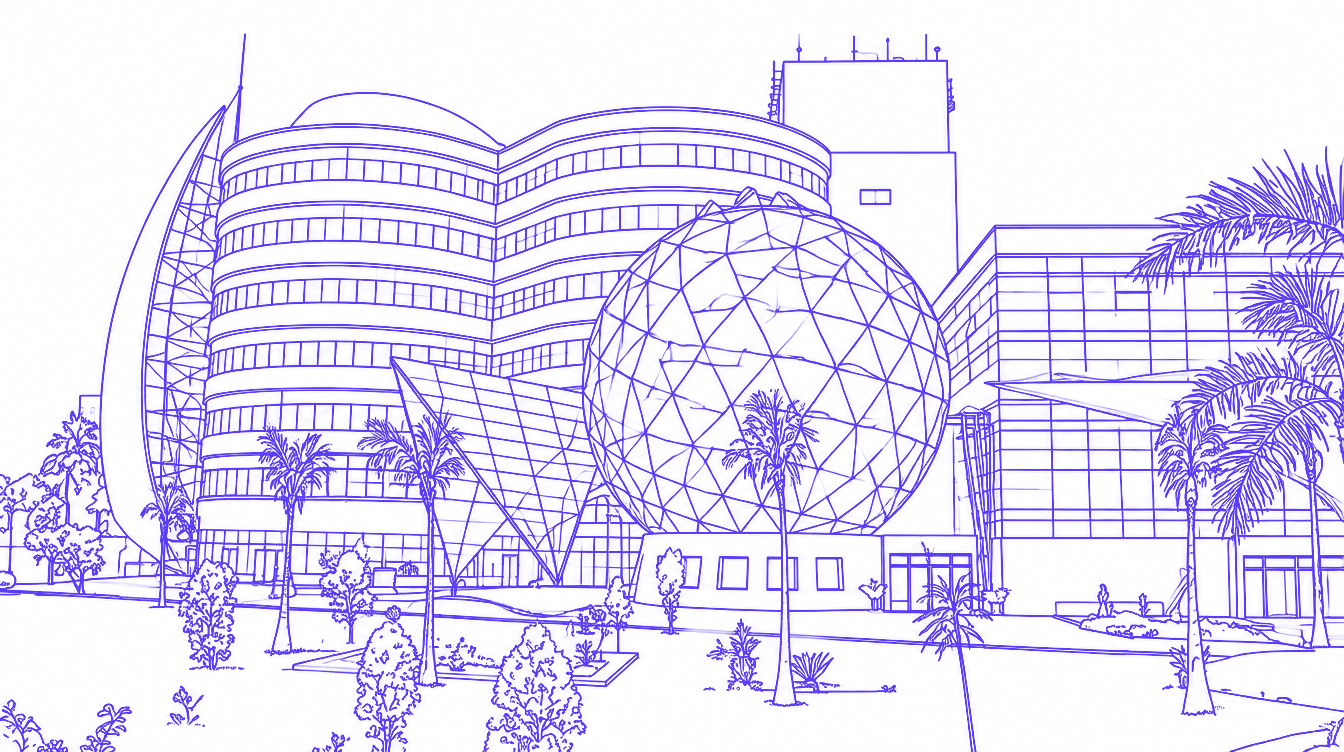
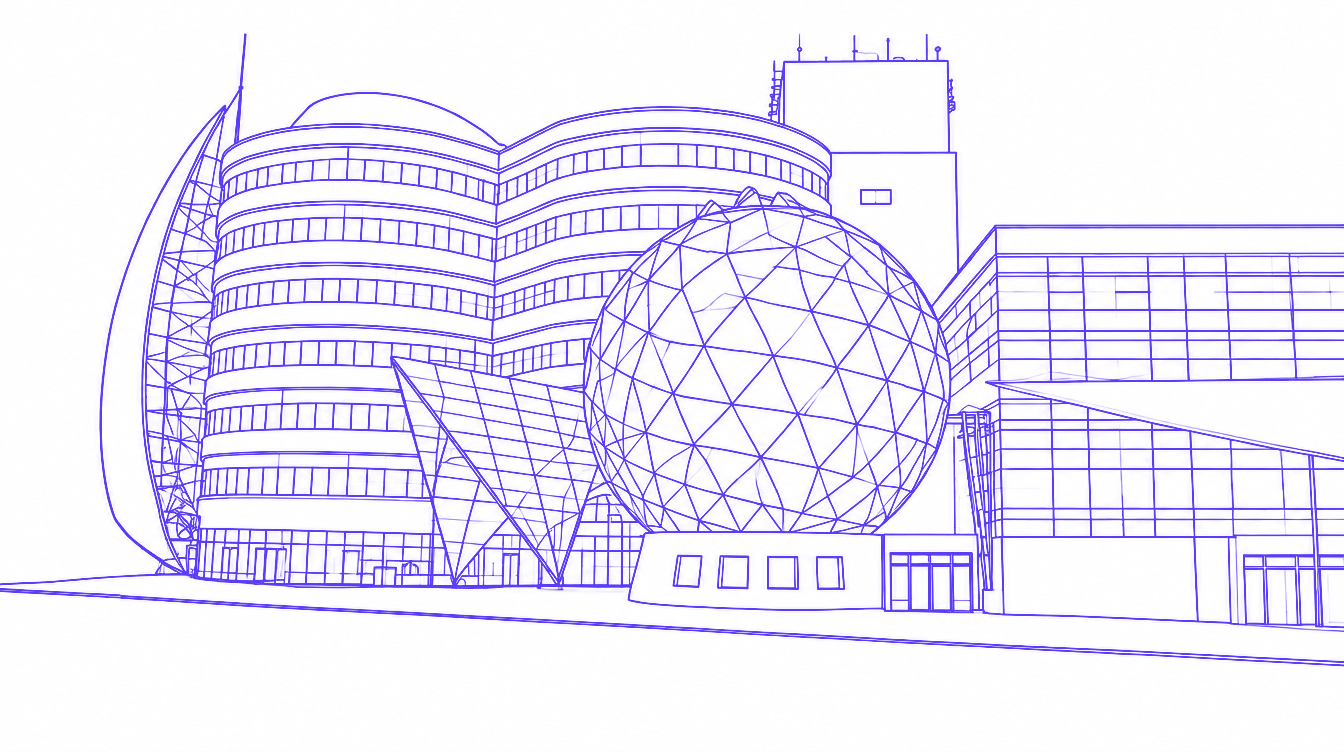
Hero outline without trees

diff --git a/index.html b/index.html
@@ -384,7 +384,7 @@ canvas.dna{display:block;width:100%;pointer-events:none}
 
 <!-- ================= HERO ================= -->
 <header class="hero" id="top">
-  <div class="hero-bg" aria-hidden="true"><img src="assets/hospital-outline.webp" alt="" /></div>
+  <div class="hero-bg" aria-hidden="true"><img src="assets/hospital-outline.webp?v=2" alt="" /></div>
   <svg class="squig" style="right:-6%;bottom:-8%;width:52%;height:62%" viewBox="0 0 800 500" aria-hidden="true">
     <path class="draw" d="M-20 420 C 120 300, 260 300, 300 380 S 420 480, 500 360 S 560 140, 700 180 S 820 300, 860 240" stroke="var(--yellow)" stroke-width="40" opacity=".85"/>
   </svg>
